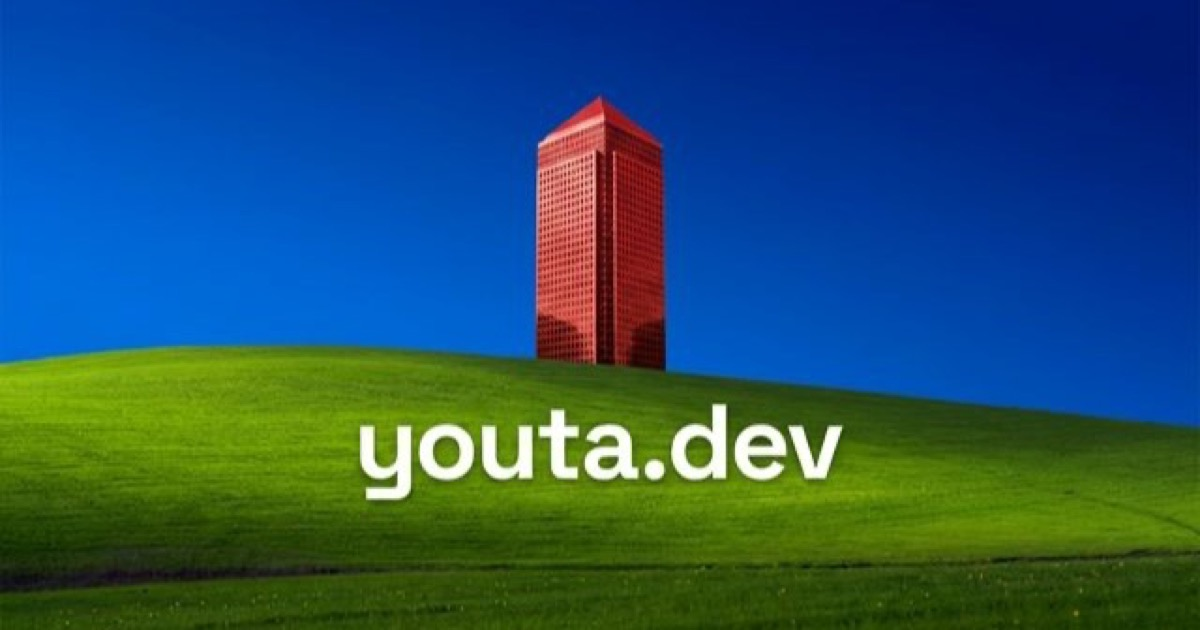
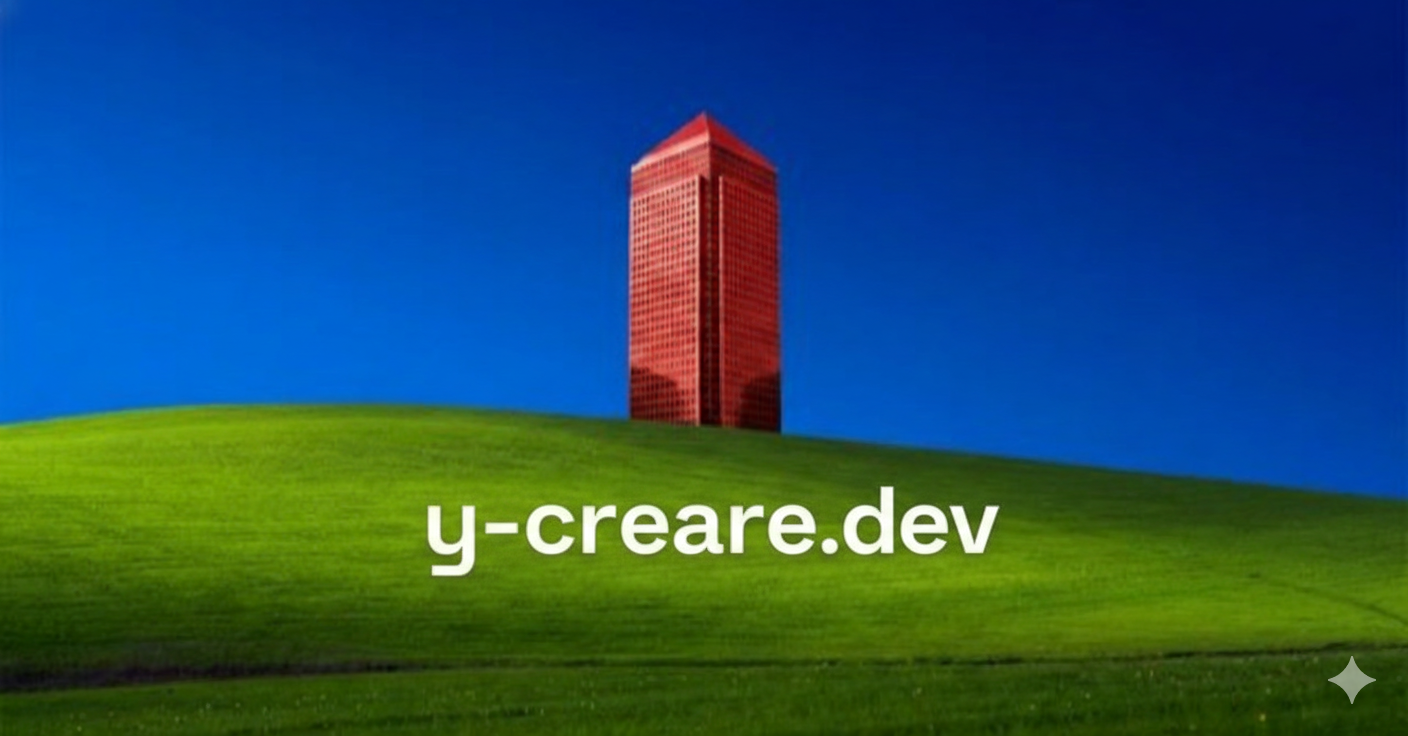
一時ファイルを削除し、SEOおよびOGP関連の設定を更新し、各種機能コンポーネントとメインページのUIを改善

Changed region(s): [[0.2775, 0.6333, 0.7092, 0.8143], [0.925, 0.9048, 0.9867, 0.9651], [0.4625, 0.2714, 0.4933, 0.3619]]

diff --git a/src/app/page.tsx b/src/app/page.tsx
@@ -25,10 +25,10 @@ export async function generateMetadata({ searchParams }: PageProps): Promise<Met
   const app = typeof params?.app === 'string' ? params.app : undefined;
   const slug = typeof params?.slug === 'string' ? params.slug : undefined;
 
-  let title = 'youta.dev';
-  let description = 'Windows XPをモチーフにしたポートフォリオサイト';
+  let title = 'y-creare.dev';
+  let description = 'はじめまして、Creare(大島)と申します、当サイトはWindows XPをモチーフにしたポートフォリオサイトとなります。ご覧いただけると幸いです。';
 
-  const baseUrl = 'https://youta-dev.vercel.app';
+  const baseUrl = 'https://y-creare.dev';
   let imageUrl = `${baseUrl}/og-image.jpg`;
   let canonicalUrl = baseUrl;
   let imageWidth = 1200;
@@ -38,7 +38,7 @@ export async function generateMetadata({ searchParams }: PageProps): Promise<Met
   if (app === DESKTOP_ICON_IDS.BLOG && slug) {
     const post = await getPostBySlug(slug);
     if (post) {
-      title = `${post.metadata.title} | youta.dev`;
+      title = `${post.metadata.title} | y-creare.dev`;
       description = post.metadata.description || description;
       canonicalUrl = `${baseUrl}/?app=${app}&slug=${slug}`;
 
@@ -55,7 +55,7 @@ export async function generateMetadata({ searchParams }: PageProps): Promise<Met
   } else if (app === DESKTOP_ICON_IDS.PORTFOLIO && slug) {
     const project = PROJECTS.find(p => p.metadata.id === slug);
     if (project) {
-      title = `${project.metadata.title} | Portfolio | youta.dev`;
+      title = `${project.metadata.title} | Portfolio | y-creare.dev`;
       description = project.metadata.description || description;
       canonicalUrl = `${baseUrl}/?app=${app}&slug=${slug}`;
 
@@ -72,7 +72,7 @@ export async function generateMetadata({ searchParams }: PageProps): Promise<Met
   } else if (app) {
     const config = DESKTOP_APP_CONFIGS.find(c => c.id === app);
     if (config) {
-      title = `${config.title} | youta.dev`;
+      title = `${config.title} | y-creare.dev`;
       canonicalUrl = `${baseUrl}/?app=${app}`;
     }
   }
@@ -95,7 +95,7 @@ export async function generateMetadata({ searchParams }: PageProps): Promise<Met
       title,
       description,
       url: canonicalUrl,
-      siteName: 'youta.dev',
+      siteName: 'y-creare.dev',
       images: [
         {
           url: imageUrl,

diff --git a/src/components/xp/ExplorerSidebar/SidebarAppLinks.tsx b/src/components/xp/ExplorerSidebar/SidebarAppLinks.tsx
@@ -1,0 +1,54 @@
+'use client';
+
+import React from 'react';
+import Image from 'next/image';
+import { DESKTOP_APP_CONFIGS, ON_DESKTOP_ICON_IDS } from '@/config/desktopApps';
+import { useWindows } from '@/contexts/WindowsContext';
+import { useMobileSidebar } from '@/hooks/useMobileSidebar';
+import {
+    SidebarSection,
+    SidebarHeader,
+    SidebarContent,
+    SidebarLink
+} from './ExplorerSidebar';
+
+interface SidebarAppLinksProps {
+    currentAppId?: string;
+}
+
+export function SidebarAppLinks({ currentAppId }: SidebarAppLinksProps) {
+    const { openWindow } = useWindows();
+    const { closeSidebar } = useMobileSidebar();
+
+    const menuApps = DESKTOP_APP_CONFIGS.filter(app =>
+        ON_DESKTOP_ICON_IDS.includes(app.id) && app.id !== currentAppId
+    );
+
+    const handleNavigate = (id: string) => {
+        openWindow(id as any);
+        closeSidebar();
+    };
+
+    return (
+        <SidebarSection>
+            <SidebarHeader title="コンテンツ" />
+            <SidebarContent>
+                {menuApps.map(app => (
+                    <SidebarLink
+                        key={app.id}
+                        label={app.title}
+                        onClick={() => handleNavigate(app.id)}
+                        icon={
+                            <Image
+                                src={app.icon}
+                                alt=""
+                                width={16}
+                                height={16}
+                            />
+                        }
+                    />
+                ))}
+            </SidebarContent>
+        </SidebarSection>
+    );
+}

diff --git a/src/features/about/components/Sidebar.tsx b/src/features/about/components/Sidebar.tsx
@@ -1,43 +1,9 @@
 import React from 'react';
-import Image from 'next/image';
-import { DESKTOP_APP_CONFIGS, ON_DESKTOP_ICON_IDS } from '@/config/desktopApps';
 import { DESKTOP_ICON_IDS } from '@/constants/desktopIconConstants';
-import {
-    SidebarSection,
-    SidebarHeader,
-    SidebarContent,
-    SidebarLink
-} from '@/components/xp/ExplorerSidebar/ExplorerSidebar';
+import { SidebarAppLinks } from '@/components/xp/ExplorerSidebar/SidebarAppLinks';
 
-interface SidebarProps {
-    onNavigate: (id: string) => void;
-}
-
-export function Sidebar({ onNavigate }: SidebarProps) {
-    const menuApps = DESKTOP_APP_CONFIGS.filter(app =>
-        ON_DESKTOP_ICON_IDS.includes(app.id) && app.id !== DESKTOP_ICON_IDS.ABOUT
-    );
-
+export function Sidebar() {
     return (
-        <SidebarSection>
-            <SidebarHeader title="コンテンツ" />
-            <SidebarContent>
-                {menuApps.map(app => (
-                    <SidebarLink
-                        key={app.id}
-                        label={app.title}
-                        onClick={() => onNavigate(app.id)}
-                        icon={
-                            <Image
-                                src={app.icon}
-                                alt=""
-                                width={16}
-                                height={16}
-                            />
-                        }
-                    />
-                ))}
-            </SidebarContent>
-        </SidebarSection>
+        <SidebarAppLinks currentAppId={DESKTOP_ICON_IDS.ABOUT} />
     );
 }

diff --git a/src/features/about/Content.tsx b/src/features/about/Content.tsx
@@ -1,7 +1,6 @@
 'use client';
 
 import React from "react";
-import { useQueryState, parseAsString } from 'nuqs';
 import styles from './About.module.css';
 import { Sidebar } from "./components/Sidebar";
 import { ProfileHeader } from "./components/ProfileHeader";
@@ -11,13 +10,7 @@ import { ExplorerAppLayout } from "@/components/xp/WindowAppLayout/ExplorerAppLa
 import { ExplorerSidebar } from "@/components/xp/ExplorerSidebar/ExplorerSidebar";
 
 export function Content() {
-    const [, setApp] = useQueryState('app', parseAsString.withDefault('').withOptions({ history: 'push' }));
     const { isSidebarOpen, toggleSidebar, closeSidebar } = useMobileSidebar();
-
-    const navigateTo = (id: string) => {
-        setApp(id);
-        closeSidebar();
-    };
 
     return (
         <ExplorerAppLayout
@@ -26,7 +19,7 @@ export function Content() {
             onCloseSidebar={closeSidebar}
             sidebar={
                 <ExplorerSidebar isOpen={isSidebarOpen}>
-                    <Sidebar onNavigate={navigateTo} />
+                    <Sidebar />
                 </ExplorerSidebar>
             }
         >

diff --git a/src/features/portfolio/components/PortfolioApp.tsx b/src/features/portfolio/components/PortfolioApp.tsx
@@ -11,6 +11,8 @@ import { useMobileSidebar } from '@/hooks/useMobileSidebar';
 import { AddressBar } from '@/components/xp/AddressBar/AddressBar';
 import { ExplorerAppLayout } from '@/components/xp/WindowAppLayout/ExplorerAppLayout';
 import { ExplorerSidebar, SidebarSection, SidebarHeader, SidebarContent, SidebarLink } from '@/components/xp/ExplorerSidebar/ExplorerSidebar';
+import { SidebarAppLinks } from '@/components/xp/ExplorerSidebar/SidebarAppLinks';
+import { DESKTOP_ICON_IDS } from '@/constants/desktopIconConstants';
 
 export function PortfolioApp() {
     const [selectedCategory, setSelectedCategory] = useState<string | null>(null);
@@ -48,6 +50,7 @@ export function PortfolioApp() {
             }
             sidebar={
                 <ExplorerSidebar isOpen={isSidebarOpen}>
+                    <SidebarAppLinks currentAppId={DESKTOP_ICON_IDS.PORTFOLIO} />
                     <SidebarSection>
                         <SidebarHeader title="Categories" />
                         <SidebarContent>

diff --git a/src/features/skillsheet/Content.tsx b/src/features/skillsheet/Content.tsx
@@ -6,6 +6,7 @@ import { ExplorerAppLayout } from '@/components/xp/WindowAppLayout/ExplorerAppLa
 import { AddressBar } from '@/components/xp/AddressBar/AddressBar';
 import { useMobileSidebar } from '@/hooks/useMobileSidebar';
 import { ExplorerSidebar, SidebarSection, SidebarHeader, SidebarContent, SidebarLink } from '@/components/xp/ExplorerSidebar/ExplorerSidebar';
+import { SidebarAppLinks } from '@/components/xp/ExplorerSidebar/SidebarAppLinks';
 import { useWindows } from '@/contexts/WindowsContext';
 import { DESKTOP_ICON_IDS } from '@/constants/desktopIconConstants';
 
@@ -29,6 +30,7 @@ export function Content() {
             }
             sidebar={
                 <ExplorerSidebar isOpen={isSidebarOpen}>
+                    <SidebarAppLinks currentAppId={DESKTOP_ICON_IDS.SKILLSHEET} />
                     <SidebarSection>
                         <SidebarHeader title="関連リンク" />
                         <SidebarContent>

diff --git a/src/app/api/og-blog/route.tsx b/src/app/api/og-blog/route.tsx
@@ -6,7 +6,7 @@ export const runtime = 'edge';
 export async function GET(request: NextRequest) {
     try {
         const { searchParams } = new URL(request.url);
-        const title = searchParams.get('title') || 'youta.dev';
+        const title = searchParams.get('title') || 'y-creare.dev';
         const date = searchParams.get('date') || '';
         const category = searchParams.get('category') || '';
 
@@ -110,7 +110,7 @@ export async function GET(request: NextRequest) {
                         >
                             💻
                         </div>
-                        <div style={{ display: 'flex' }}>youta.dev</div>
+                        <div style={{ display: 'flex' }}>y-creare.dev</div>
                     </div>
                 </div>
             ),

diff --git a/src/app/api/og-portfolio/route.tsx b/src/app/api/og-portfolio/route.tsx
@@ -6,7 +6,7 @@ export const runtime = 'edge';
 export async function GET(request: NextRequest) {
     try {
         const { searchParams } = new URL(request.url);
-        const title = searchParams.get('title') || 'youta.dev';
+        const title = searchParams.get('title') || 'y-creare.dev';
         const date = searchParams.get('date') || '';
         const category = searchParams.get('category') || '';
 
@@ -110,7 +110,7 @@ export async function GET(request: NextRequest) {
                         >
                             💻
                         </div>
-                        <div style={{ display: 'flex' }}>youta.dev</div>
+                        <div style={{ display: 'flex' }}>y-creare.dev</div>
                     </div>
                 </div>
             ),

diff --git a/src/features/blog/components/BlogSidebar.tsx b/src/features/blog/components/BlogSidebar.tsx
@@ -6,6 +6,8 @@ import {
     SidebarLink
 } from '@/components/xp/ExplorerSidebar/ExplorerSidebar';
 import styles from './BlogApp.module.css';
+import { SidebarAppLinks } from '@/components/xp/ExplorerSidebar/SidebarAppLinks';
+import { DESKTOP_ICON_IDS } from '@/constants/desktopIconConstants';
 
 interface BlogSidebarProps {
     searchQuery: string;
@@ -30,6 +32,7 @@ export const BlogSidebar = ({
 }: BlogSidebarProps) => {
     return (
         <>
+            <SidebarAppLinks currentAppId={DESKTOP_ICON_IDS.BLOG} />
             {/* 検索 */}
             <SidebarSection>
                 <SidebarHeader title="検索" />

diff --git a/src/features/portfolio/data/projects.tsx b/src/features/portfolio/data/projects.tsx
@@ -40,7 +40,7 @@ export const PROJECTS: Project[] = [
             category: PORTFOLIO_CATEGORIES.WEB_APP,
             description: 'Windows XPのUIを模したHP、当サイトです。',
             thumbnail: xpPortfolio,
-            url: 'https://youta-dev.vercel.app',
+            url: 'https://y-creare.dev',
             githubUrl: 'https://github.com/CreareWorks/MyXpHomePage',
             techStack: ['Next.js', 'React', 'TypeScript', 'CSS Modules'],
         },

diff --git a/src/app/layout.tsx b/src/app/layout.tsx
@@ -3,7 +3,7 @@ import { NuqsAdapter } from 'nuqs/adapters/next/app';
 import '@/app/globals.css';
 
 export const metadata: Metadata = {
-  metadataBase: new URL('https://youta-dev.vercel.app'),
+  metadataBase: new URL('https://y-creare.dev'),
 }
 
 export const viewport: Viewport = {

diff --git a/src/app/robots.ts b/src/app/robots.ts
@@ -6,6 +6,6 @@ export default function robots(): MetadataRoute.Robots {
             userAgent: '*',
             allow: '/',
         },
-        sitemap: 'https://youta-dev.vercel.app/sitemap.xml',
+        sitemap: 'https://y-creare.dev/sitemap.xml',
     };
 }
